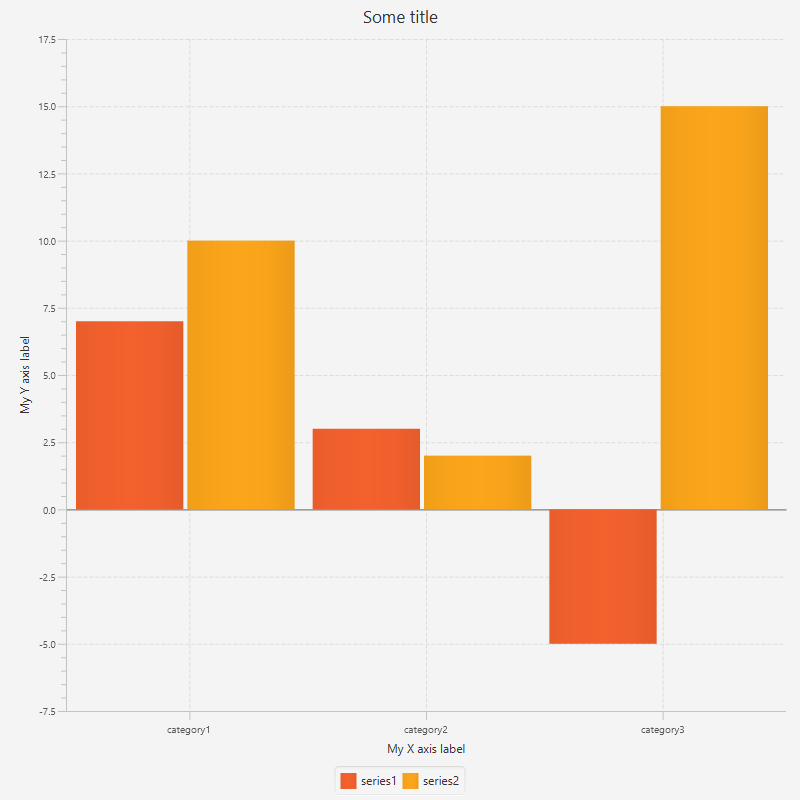
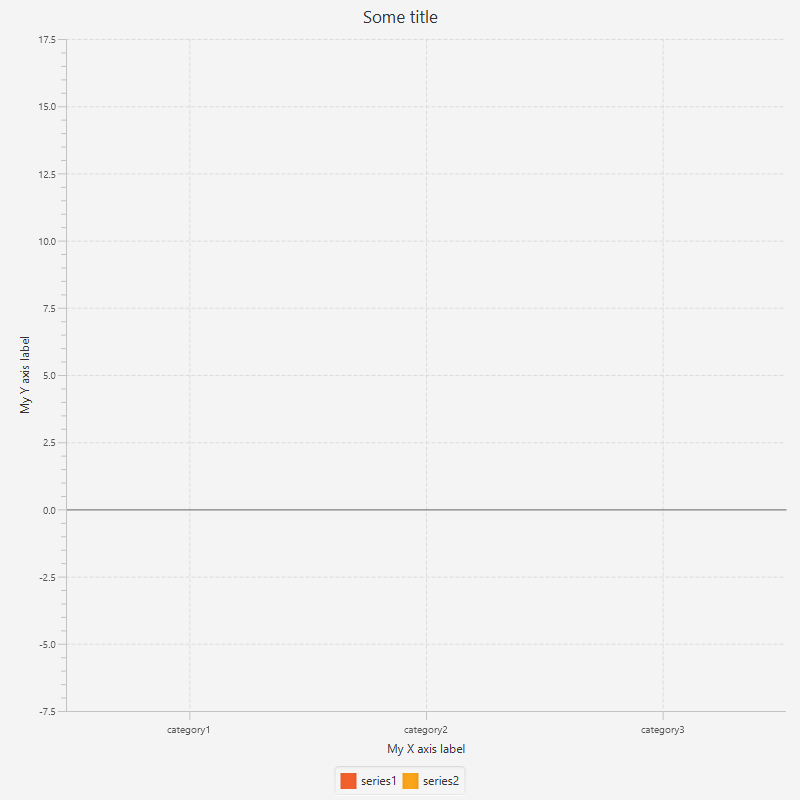
Worked on trying to fix rendering bugs in report system

Changed region(s): [[0.0938, 0.125, 0.9688, 0.8125]]

diff --git a/chartStyles.css b/chartStyles.css
@@ -1,0 +1,4 @@
+.chart {
+    -fx-open-tab-animation: NONE;
+    -fx-close-tab-animation: NONE;
+}

diff --git a/src/main/java/com/team5/report/generators/BarChartGenerator.java b/src/main/java/com/team5/report/generators/BarChartGenerator.java
@@ -4,6 +4,7 @@ import java.io.File;
 import java.io.IOException;
 import java.util.ArrayList;
 import java.util.List;
+import java.util.concurrent.TimeUnit;
 
 import javax.imageio.ImageIO;
 
@@ -30,6 +31,8 @@ public class BarChartGenerator extends Application {
     private static Pair<String, String> axisLabels;
     private static Pair<Double, Double> dimensions;
     private static List<Series<Pair<String, Number>>> data;
+
+    private static Scene scene;
 
     @Override
     public void start(Stage stage) throws Exception {
@@ -69,6 +72,20 @@ public class BarChartGenerator extends Application {
         // Add the data to the chart
         chart.getData().addAll(seriesList);
 
+        chart.setAnimated(false);
+        yAxis.setAnimated(false);
+        xAxis.setAnimated(false);
+        chart.setStyle("-fx-open-tab-animation: NONE; -fx-close-tab-animation: NONE;");
+
+        // System.out.println("Some shit");
+        System.out.println(chart.getStyle());
+
+        // scene.getStylesheets().add("chartStyles.css");
+
+        // style = chart.getStyle();
+
+        
+
         // Display the scene
         stage.setScene(scene);
         stage.show();
@@ -80,6 +97,11 @@ public class BarChartGenerator extends Application {
         // System.exit(0);
     }
 
+    // @Override
+    // public void stop() {
+    //     System.out.println("Stage is closing");
+    // }
+
     /**
      * Saves the generated report to the given target location.
      * 
@@ -87,7 +109,7 @@ public class BarChartGenerator extends Application {
      * @param path The save location.
      * @throws IOException Thrown if an IOException occurs.
      */
-    protected void saveAsPng(Scene scene, String path) throws IOException {
+    protected void saveAsPng(Scene scene, String path) throws IOException, InterruptedException {
         WritableImage image = scene.snapshot(null);
         File file = new File(path);
         ImageIO.write(SwingFXUtils.fromFXImage(image, null), "png", file);

diff --git a/src/test/java/com/team5/report/charts/MockBarChartReport.java b/src/test/java/com/team5/report/charts/MockBarChartReport.java
@@ -1,0 +1,56 @@
+package com.team5.report.charts;
+
+import java.util.ArrayList;
+import java.util.List;
+
+import com.team5.report.data.Series;
+
+import org.javatuples.Pair;
+
+public class MockBarChartReport extends BarChartReport {
+    @Override
+    protected List<Series<Pair<String, Number>>> getPairData() {
+        List<Series<Pair<String, Number>>> ret = new ArrayList<>();
+
+        List<Pair<String, Number>> temp = new ArrayList<>();
+        temp.add(new Pair<String,Number>("category1", 7));
+        temp.add(new Pair<String,Number>("category2", 3));
+        temp.add(new Pair<String,Number>("category3", -5));
+
+        ret.add(new Series<>("series1", temp));
+
+        temp = new ArrayList<>();
+        temp.add(new Pair<String,Number>("category1", 10));
+        temp.add(new Pair<String,Number>("category2", 2));
+        temp.add(new Pair<String,Number>("category3", 15));
+
+        ret.add(new Series<>("series2", temp));
+
+        return ret;
+    }
+
+    @Override
+    protected Pair<String, String> getAxisLabels() {
+        return new Pair<String,String>("xAxisLabel", "yAxisLabel");
+    }
+
+    @Override
+    protected Pair<Double, Double> getDimensions() {
+        return new Pair<Double,Double>(500.0, 600.0);
+    }
+
+    @Override
+    public String getReportDescription() {
+        return "My mock bar chart report description";
+    }
+
+    @Override
+    public String getReportName() {
+        return "Mock Bar Chart Report";
+    }
+
+    @Override
+    protected String getTitle() {
+        return "Mock Title";
+    }
+}

diff --git a/src/test/java/com/team5/report/charts/BarChartReportTest.java b/src/test/java/com/team5/report/charts/BarChartReportTest.java
@@ -1,0 +1,45 @@
+package com.team5.report.charts;
+
+import static org.junit.Assert.assertTrue;
+import static org.junit.jupiter.api.Assertions.assertEquals;
+import static org.junit.jupiter.api.Assertions.assertThrows;
+
+import java.io.File;
+import java.io.IOException;
+import java.util.ArrayList;
+import java.util.List;
+
+import com.team5.report.data.Series;
+
+import org.apache.commons.io.FileUtils;
+import org.javatuples.Pair;
+import org.junit.Before;
+import org.junit.jupiter.api.DisplayName;
+import org.junit.jupiter.api.Test;
+
+public class BarChartReportTest {
+    final String ROOT = "testFiles/reportTests/BarChartTest";
+
+    final String testReport = ROOT + "/testBarChart.png";
+
+    // @Test
+    // @DisplayName("test generate")
+    // void testGenerate() throws IOException {
+    //     // Empty the directory contents
+    //     FileUtils.cleanDirectory(new File(ROOT));
+
+    //     Report r = new MockBarChartReport();
+
+    //     r.generate(testReport);
+
+    //     assertTrue(new File(testReport).isFile());
+    // }
+
+    
+
+    @Test
+    @DisplayName("test")
+    void test() {
+        
+    }
+}

diff --git a/src/main/java/com/team5/report/generators/BubbleChartGenerator.java b/src/main/java/com/team5/report/generators/BubbleChartGenerator.java
@@ -38,6 +38,11 @@ public class BubbleChartGenerator extends Application {
         final NumberAxis xAxis = new NumberAxis();
         final NumberAxis yAxis = new NumberAxis();
         final BubbleChart<Number,Number> chart =  new BubbleChart<Number, Number>(xAxis,yAxis);
+
+        // Disable animations
+        xAxis.setAnimated(false); 
+        yAxis.setAnimated(false);
+
         chart.setTitle(title); // Set the title of the chart
 
         // Set the lables of the axises

diff --git a/src/main/java/com/team5/report/generators/ScatterChartGenerator.java b/src/main/java/com/team5/report/generators/ScatterChartGenerator.java
@@ -37,6 +37,11 @@ public class ScatterChartGenerator extends Application {
         final NumberAxis xAxis = new NumberAxis();
         final NumberAxis yAxis = new NumberAxis();
         final ScatterChart<Number,Number> chart =  new ScatterChart<>(xAxis,yAxis);
+
+        // Disable animations
+        xAxis.setAnimated(false); 
+        yAxis.setAnimated(false);
+
         chart.setTitle(title); // Set the title of the chart
 
         // Set the lables of the axises

diff --git a/src/main/java/com/team5/report/generators/LineChartGenerator.java b/src/main/java/com/team5/report/generators/LineChartGenerator.java
@@ -37,6 +37,11 @@ public class LineChartGenerator extends Application {
         final NumberAxis xAxis = new NumberAxis();
         final NumberAxis yAxis = new NumberAxis();
         final LineChart<Number,Number> chart =  new LineChart<>(xAxis,yAxis);
+
+        // Disable animations
+        xAxis.setAnimated(false); 
+        yAxis.setAnimated(false);
+
         chart.setTitle(title); // Set the title of the chart
 
         // Set the lables of the axises

diff --git a/src/main/java/com/team5/report/implementations/ClientCourseEnrollmentReport.java b/src/main/java/com/team5/report/implementations/ClientCourseEnrollmentReport.java
@@ -10,6 +10,7 @@ import com.team5.database.DatabaseDriver;
 import com.team5.report.charts.BarChartReport;
 import com.team5.report.charts.Report;
 import com.team5.report.data.Series;
+import com.team5.report.generators.BarChartGenerator;
 import com.team5.utilities.JSONLoader;
 
 import org.javatuples.Pair;
